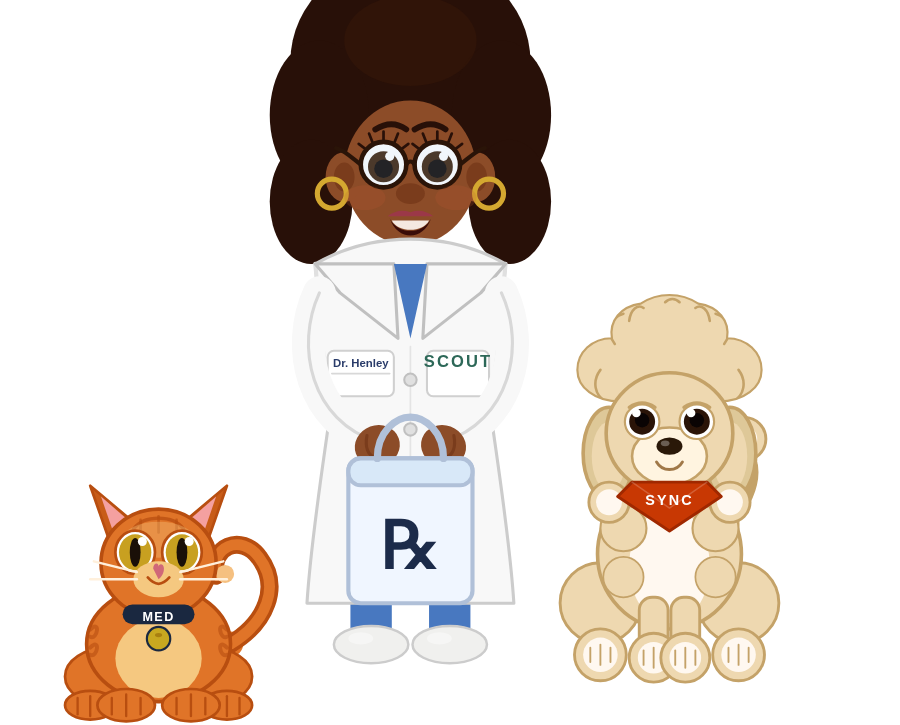
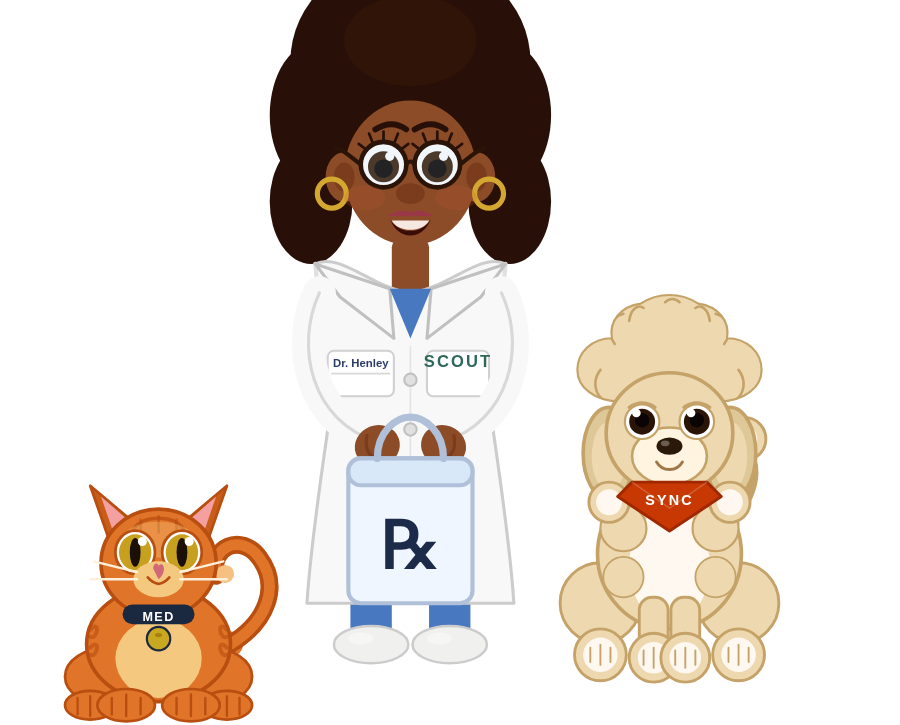
Add visible neck and narrow lab coat collar on Dr. Henley
Extends neck rect from 14px to 30px tall so it shows between
chin and coat. Lowers coat center neckline to y=130 (from y=104)
to create a properly-sized collar opening. Updates lapel polygons
and blue scrubs V to match the new neckline. Re-renders all PNGs.

Changed region(s): [[0.3422, 0.3034, 0.56, 0.4855]]

diff --git a/scout.html b/scout.html
@@ -590,17 +590,17 @@ a:focus-visible { outline: 2px solid var(--orange); outline-offset: 3px; border-
         <path d="M 218,94 C 222,102 234,102 238,94 C 234,105 222,105 218,94 Z" fill="#3A0C08"/>
         <path d="M 219,95 C 222,101 234,101 237,95" fill="#F4E8E0"/>
         <path d="M 217,93 Q 222,89 228,91 Q 234,89 239,93" fill="#9B3848"/>
-        <rect x="220" y="104" width="16" height="14" rx="4" fill="#8C4C28"/>
+        <rect x="219" y="104" width="18" height="30" rx="4" fill="#8C4C28"/>
         <rect x="199" y="272" width="20" height="28" rx="4" fill="#4878C0"/>
         <rect x="237" y="272" width="20" height="28" rx="4" fill="#4878C0"/>
         <ellipse cx="209" cy="300" rx="18" ry="9" fill="#F0F0EE" stroke="#CCCCCC" stroke-width="1.2"/>
         <ellipse cx="247" cy="300" rx="18" ry="9" fill="#F0F0EE" stroke="#CCCCCC" stroke-width="1.2"/>
         <ellipse cx="204" cy="297" rx="6" ry="3" fill="white" opacity="0.4"/>
         <ellipse cx="242" cy="297" rx="6" ry="3" fill="white" opacity="0.4"/>
-        <path d="M 182,116 C 184,134 184,158 190,182 C 186,212 180,248 178,280 L 278,280 C 276,248 270,212 266,182 C 272,158 272,134 274,116 C 260,108 244,104 228,104 C 212,104 196,108 182,116 Z" fill="#F8F8F8" stroke="#CCCCCC" stroke-width="1.5"/>
-        <polygon points="182,116 220,116 222,152 194,130" fill="#F8F8F8" stroke="#C0C0C0" stroke-width="1.5"/>
-        <polygon points="274,116 236,116 234,152 262,130" fill="#F8F8F8" stroke="#C0C0C0" stroke-width="1.5"/>
-        <polygon points="220,116 236,116 228,152" fill="#4878C0"/>
+        <path d="M 182,116 C 184,134 184,158 190,182 C 186,212 180,248 178,280 L 278,280 C 276,248 270,212 266,182 C 272,158 272,134 274,116 C 262,110 246,128 228,130 C 210,128 194,110 182,116 Z" fill="#F8F8F8" stroke="#CCCCCC" stroke-width="1.5"/>
+        <polygon points="182,116 218,128 220,152 194,132" fill="#F8F8F8" stroke="#C0C0C0" stroke-width="1.5"/>
+        <polygon points="274,116 238,128 236,152 262,132" fill="#F8F8F8" stroke="#C0C0C0" stroke-width="1.5"/>
+        <polygon points="218,128 238,128 228,152" fill="#4878C0"/>
         <line x1="228" y1="156" x2="228" y2="274" stroke="#D0D0D0" stroke-width="0.8" opacity="0.5"/>
         <circle cx="228" cy="172" r="3" fill="#E0E0E0" stroke="#C0C0C0" stroke-width="1"/>
         <circle cx="228" cy="196" r="3" fill="#E0E0E0" stroke="#C0C0C0" stroke-width="1"/>
